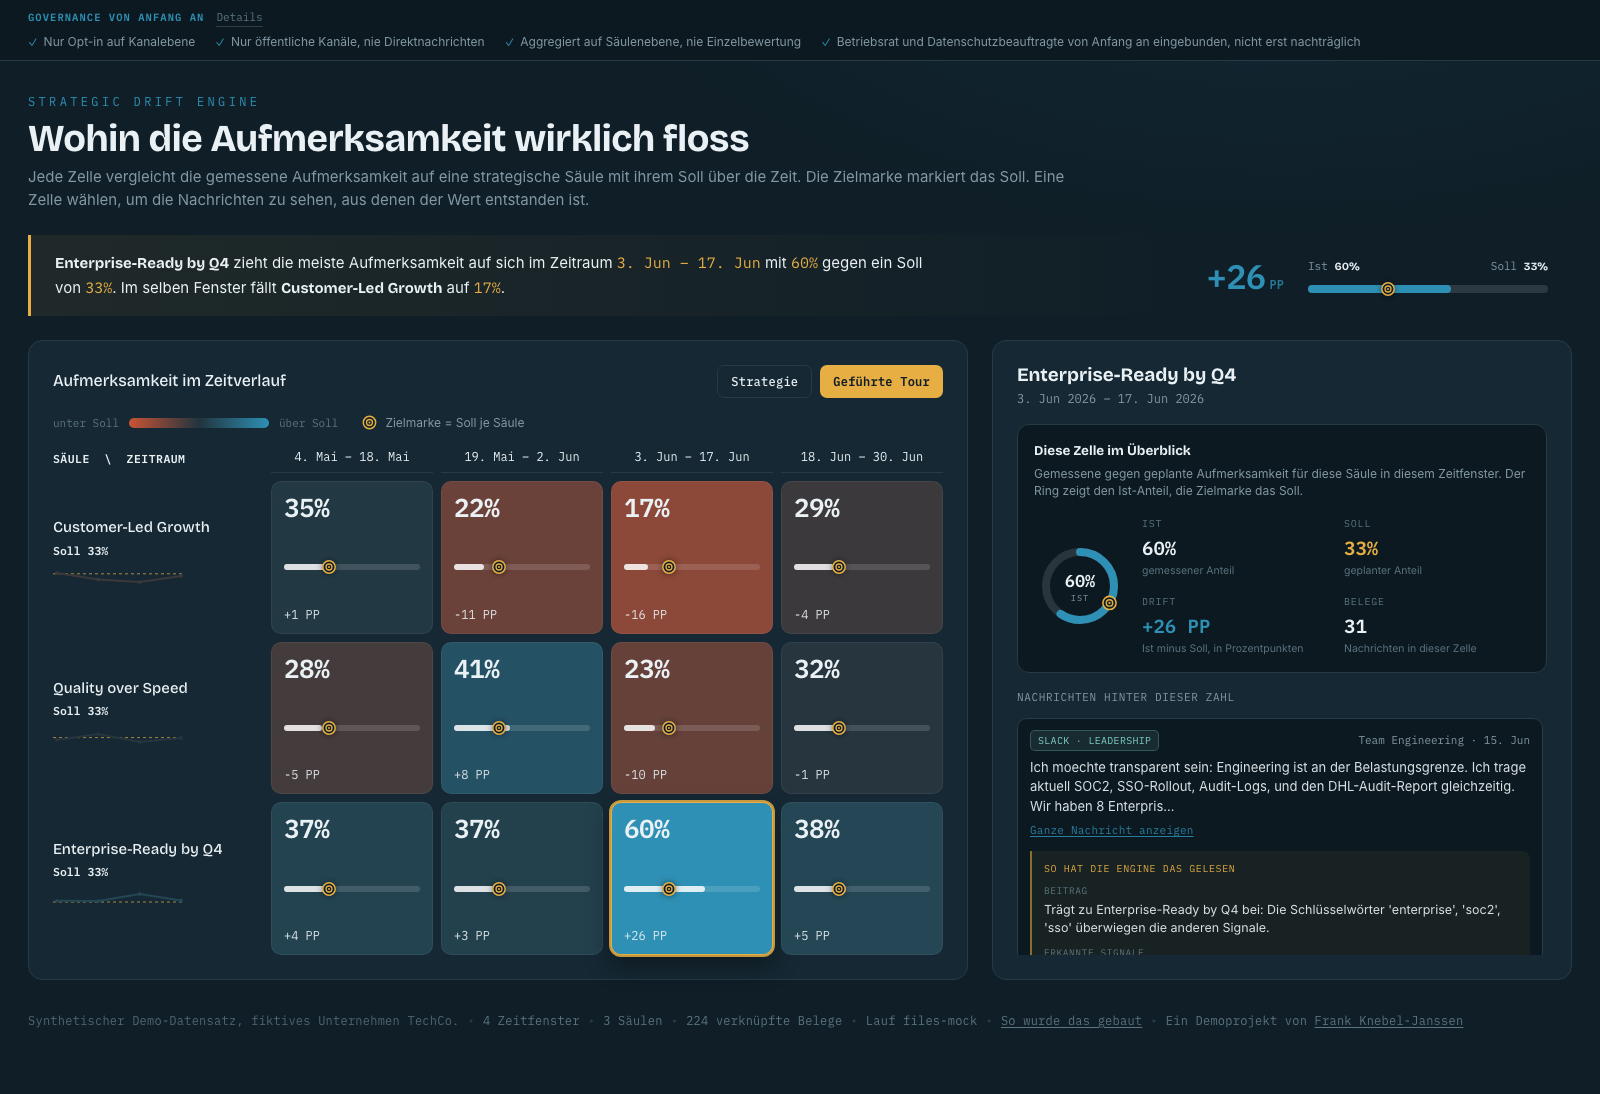
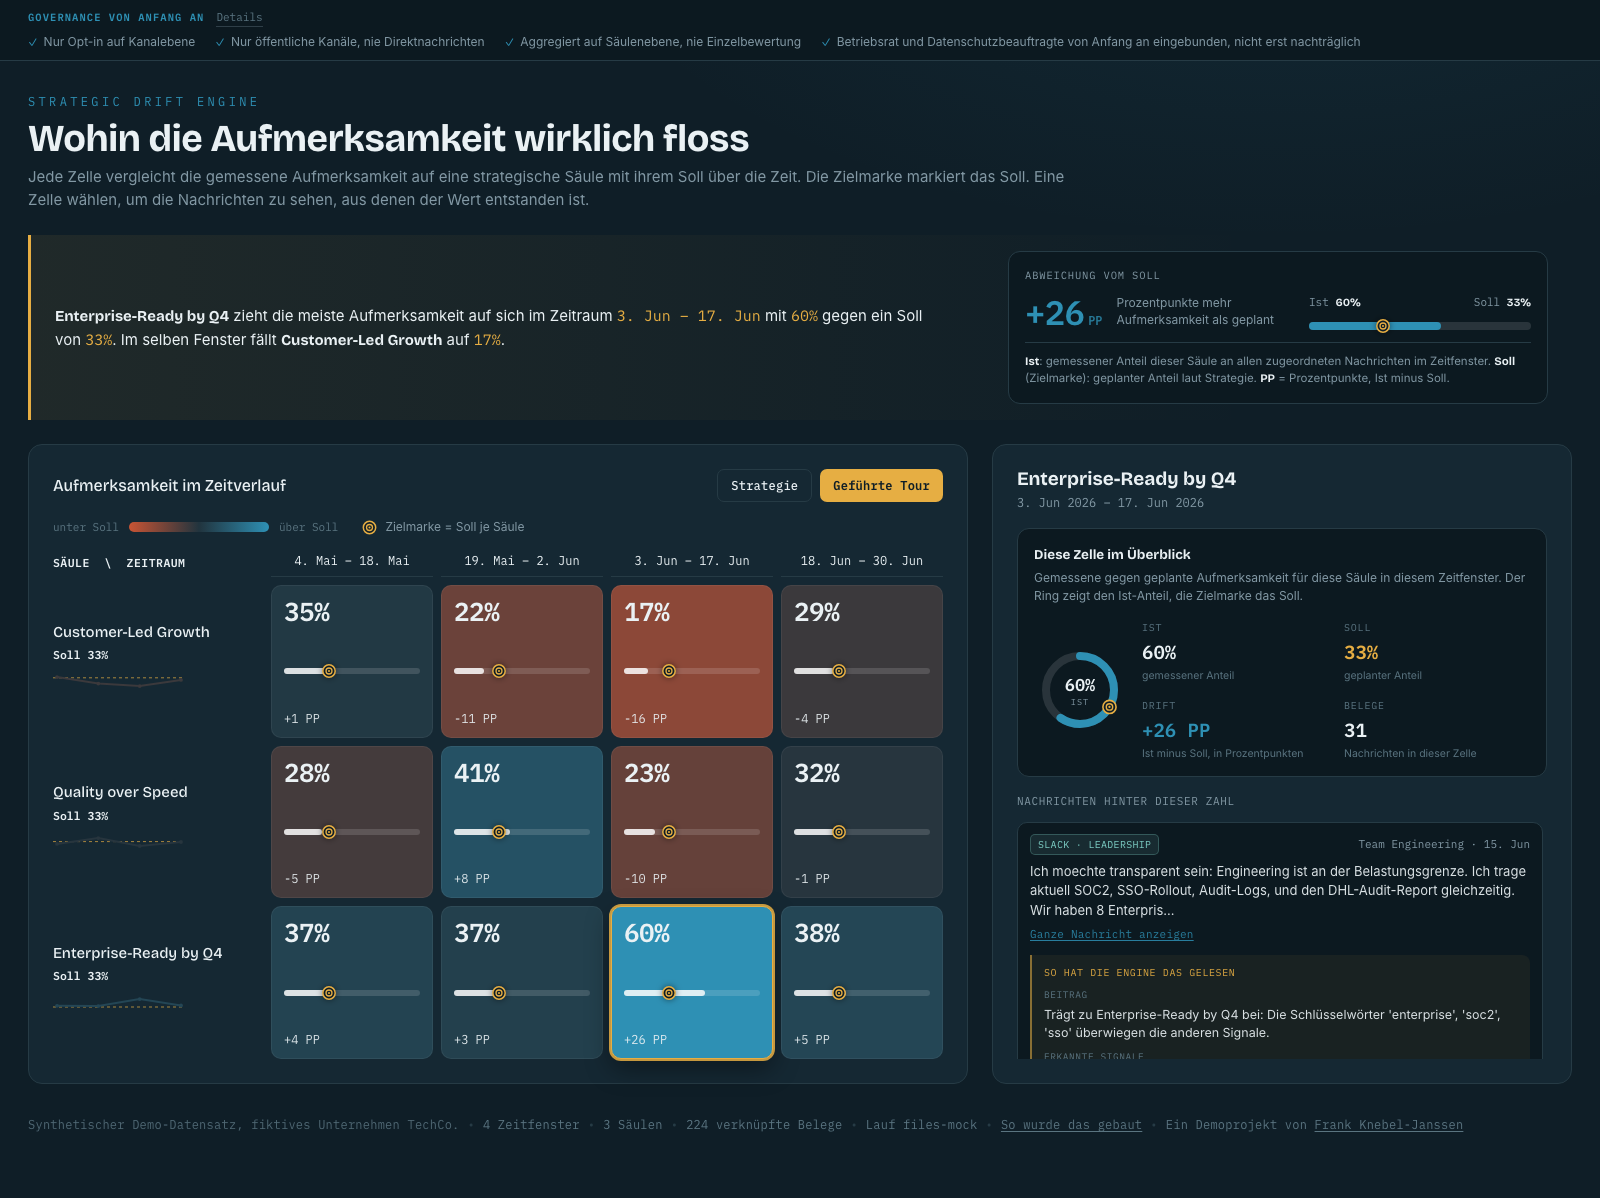
feat(frontend): Kernaussage-Kennzahlen in erklaerter Box mit Legende

diff --git a/docs/index.html b/docs/index.html
@@ -51,10 +51,19 @@ h1{font-family:var(--disp); font-weight:700; font-size:clamp(26px,3.2vw,38px);
   border-radius:0 10px 10px 0; font-size:15px; display:flex; align-items:center;
   justify-content:space-between; gap:var(--s2) var(--s4); flex-wrap:wrap}
 .reading-text{flex:1 1 420px; max-width:92ch; line-height:1.55}
-.reading-viz{display:flex; align-items:center; gap:var(--s3); flex:0 0 auto}
+.reading-viz{flex:0 0 auto; width:540px; max-width:100%; background:var(--panel2); border:1px solid var(--line);
+  border-radius:12px; padding:var(--s2); display:grid; grid-template-columns:auto minmax(0,1fr);
+  gap:10px var(--s3); align-items:center}
+@media(max-width:900px){.reading-viz{width:100%; grid-template-columns:1fr}}
+.rv-title,.rv-legend{grid-column:1 / -1}
+.rv-title{font-family:var(--mono); font-size:10.5px; letter-spacing:.08em; text-transform:uppercase; color:var(--muted)}
+.rv-main{display:flex; align-items:center; gap:14px; max-width:260px}
+.rv-expl{font-size:12px; color:var(--muted); line-height:1.4}
+.rv-legend{font-size:11.5px; color:var(--muted); line-height:1.5; border-top:1px solid var(--line); padding-top:10px; margin-top:2px}
+.rv-legend b{color:var(--ink); font-weight:600}
 .rv-delta{font-family:var(--mono); font-weight:600; font-size:34px; line-height:1; letter-spacing:-.02em}
 .rv-delta small{font-size:12px; margin-left:4px; opacity:.8; letter-spacing:0}
-.rv-one{width:240px}
+.rv-one{width:100%}
 .rv-cap{display:flex; justify-content:space-between; font-family:var(--mono); font-size:11px;
   color:var(--muted); margin-bottom:10px}
 .rv-cap b{color:var(--ink); font-weight:600}
@@ -588,14 +597,22 @@ function renderReading(){
   }
   const col = peak.drift<0 ? "var(--rust)" : "var(--teal)";
   const istW = Math.max(0,Math.min(100,peak.ist_anteil*100)), sollW = Math.max(0,Math.min(100,peak.soll_anteil*100));
+  const more = peak.drift>0 ? "mehr" : "weniger";
   const viz =
-    '<div class="reading-viz" role="img" aria-label="Ist '+Math.round(peak.ist_anteil*100)+' Prozent gegen Soll '+
+    '<div class="reading-viz" role="group" aria-label="Ist '+Math.round(peak.ist_anteil*100)+' Prozent gegen Soll '+
       Math.round(peak.soll_anteil*100)+' Prozent, Abweichung '+signed(peak.drift)+' Prozentpunkte">'+
-      '<div class="rv-delta" style="color:'+col+'">'+signed(peak.drift)+'<small>PP</small></div>'+
+      '<div class="rv-title">Abweichung vom Soll</div>'+
+      '<div class="rv-main">'+
+        '<div class="rv-delta" style="color:'+col+'">'+signed(peak.drift)+'<small>PP</small></div>'+
+        '<div class="rv-expl">Prozentpunkte '+more+' Aufmerksamkeit als geplant</div>'+
+      '</div>'+
       '<div class="rv-one">'+
         '<div class="rv-cap"><span>Ist <b>'+pct(peak.ist_anteil)+'</b></span><span>Soll <b>'+pct(peak.soll_anteil)+'</b></span></div>'+
         '<div class="rv-bar"><span class="rv-fill" style="width:'+istW+'%;background:'+col+'"></span>'+tgtAt(sollW)+'</div>'+
-      '</div></div>';
+      '</div>'+
+      '<div class="rv-legend"><b>Ist</b>: gemessener Anteil dieser Säule an allen zugeordneten Nachrichten im Zeitfenster. '+
+        '<b>Soll</b> (Zielmarke): geplanter Anteil laut Strategie. <b>PP</b> = Prozentpunkte, Ist minus Soll.</div>'+
+    '</div>';
   document.getElementById("reading").innerHTML = '<div class="reading-text">'+txt+'</div>'+viz;
 }
 

diff --git a/docs/build_frontend.py b/docs/build_frontend.py
@@ -73,10 +73,19 @@ h1{font-family:var(--disp); font-weight:700; font-size:clamp(26px,3.2vw,38px);
   border-radius:0 10px 10px 0; font-size:15px; display:flex; align-items:center;
   justify-content:space-between; gap:var(--s2) var(--s4); flex-wrap:wrap}
 .reading-text{flex:1 1 420px; max-width:92ch; line-height:1.55}
-.reading-viz{display:flex; align-items:center; gap:var(--s3); flex:0 0 auto}
+.reading-viz{flex:0 0 auto; width:540px; max-width:100%; background:var(--panel2); border:1px solid var(--line);
+  border-radius:12px; padding:var(--s2); display:grid; grid-template-columns:auto minmax(0,1fr);
+  gap:10px var(--s3); align-items:center}
+@media(max-width:900px){.reading-viz{width:100%; grid-template-columns:1fr}}
+.rv-title,.rv-legend{grid-column:1 / -1}
+.rv-title{font-family:var(--mono); font-size:10.5px; letter-spacing:.08em; text-transform:uppercase; color:var(--muted)}
+.rv-main{display:flex; align-items:center; gap:14px; max-width:260px}
+.rv-expl{font-size:12px; color:var(--muted); line-height:1.4}
+.rv-legend{font-size:11.5px; color:var(--muted); line-height:1.5; border-top:1px solid var(--line); padding-top:10px; margin-top:2px}
+.rv-legend b{color:var(--ink); font-weight:600}
 .rv-delta{font-family:var(--mono); font-weight:600; font-size:34px; line-height:1; letter-spacing:-.02em}
 .rv-delta small{font-size:12px; margin-left:4px; opacity:.8; letter-spacing:0}
-.rv-one{width:240px}
+.rv-one{width:100%}
 .rv-cap{display:flex; justify-content:space-between; font-family:var(--mono); font-size:11px;
   color:var(--muted); margin-bottom:10px}
 .rv-cap b{color:var(--ink); font-weight:600}
@@ -610,14 +619,22 @@ function renderReading(){
   }
   const col = peak.drift<0 ? "var(--rust)" : "var(--teal)";
   const istW = Math.max(0,Math.min(100,peak.ist_anteil*100)), sollW = Math.max(0,Math.min(100,peak.soll_anteil*100));
+  const more = peak.drift>0 ? "mehr" : "weniger";
   const viz =
-    '<div class="reading-viz" role="img" aria-label="Ist '+Math.round(peak.ist_anteil*100)+' Prozent gegen Soll '+
+    '<div class="reading-viz" role="group" aria-label="Ist '+Math.round(peak.ist_anteil*100)+' Prozent gegen Soll '+
       Math.round(peak.soll_anteil*100)+' Prozent, Abweichung '+signed(peak.drift)+' Prozentpunkte">'+
-      '<div class="rv-delta" style="color:'+col+'">'+signed(peak.drift)+'<small>PP</small></div>'+
+      '<div class="rv-title">Abweichung vom Soll</div>'+
+      '<div class="rv-main">'+
+        '<div class="rv-delta" style="color:'+col+'">'+signed(peak.drift)+'<small>PP</small></div>'+
+        '<div class="rv-expl">Prozentpunkte '+more+' Aufmerksamkeit als geplant</div>'+
+      '</div>'+
       '<div class="rv-one">'+
         '<div class="rv-cap"><span>Ist <b>'+pct(peak.ist_anteil)+'</b></span><span>Soll <b>'+pct(peak.soll_anteil)+'</b></span></div>'+
         '<div class="rv-bar"><span class="rv-fill" style="width:'+istW+'%;background:'+col+'"></span>'+tgtAt(sollW)+'</div>'+
-      '</div></div>';
+      '</div>'+
+      '<div class="rv-legend"><b>Ist</b>: gemessener Anteil dieser Säule an allen zugeordneten Nachrichten im Zeitfenster. '+
+        '<b>Soll</b> (Zielmarke): geplanter Anteil laut Strategie. <b>PP</b> = Prozentpunkte, Ist minus Soll.</div>'+
+    '</div>';
   document.getElementById("reading").innerHTML = '<div class="reading-text">'+txt+'</div>'+viz;
 }
 
